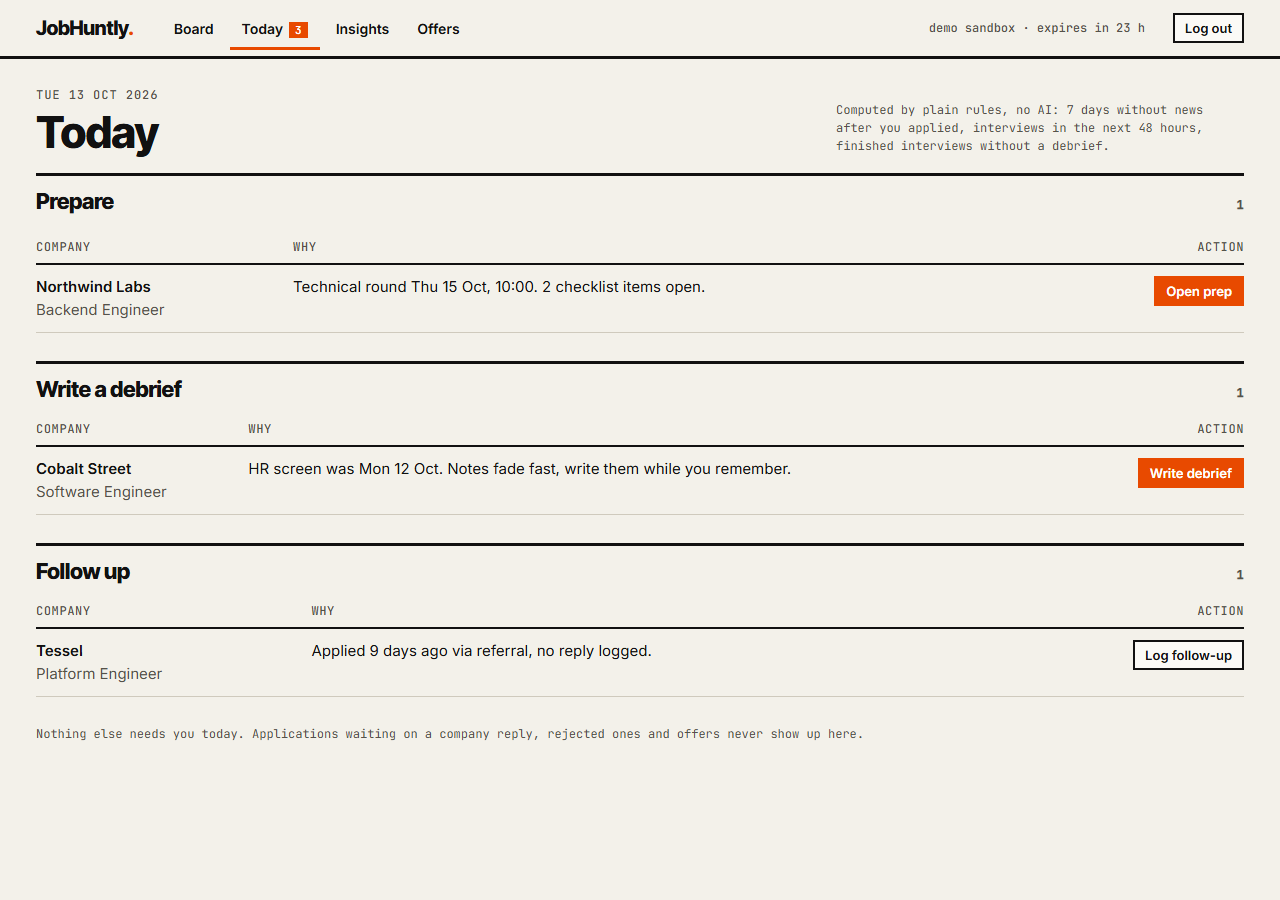
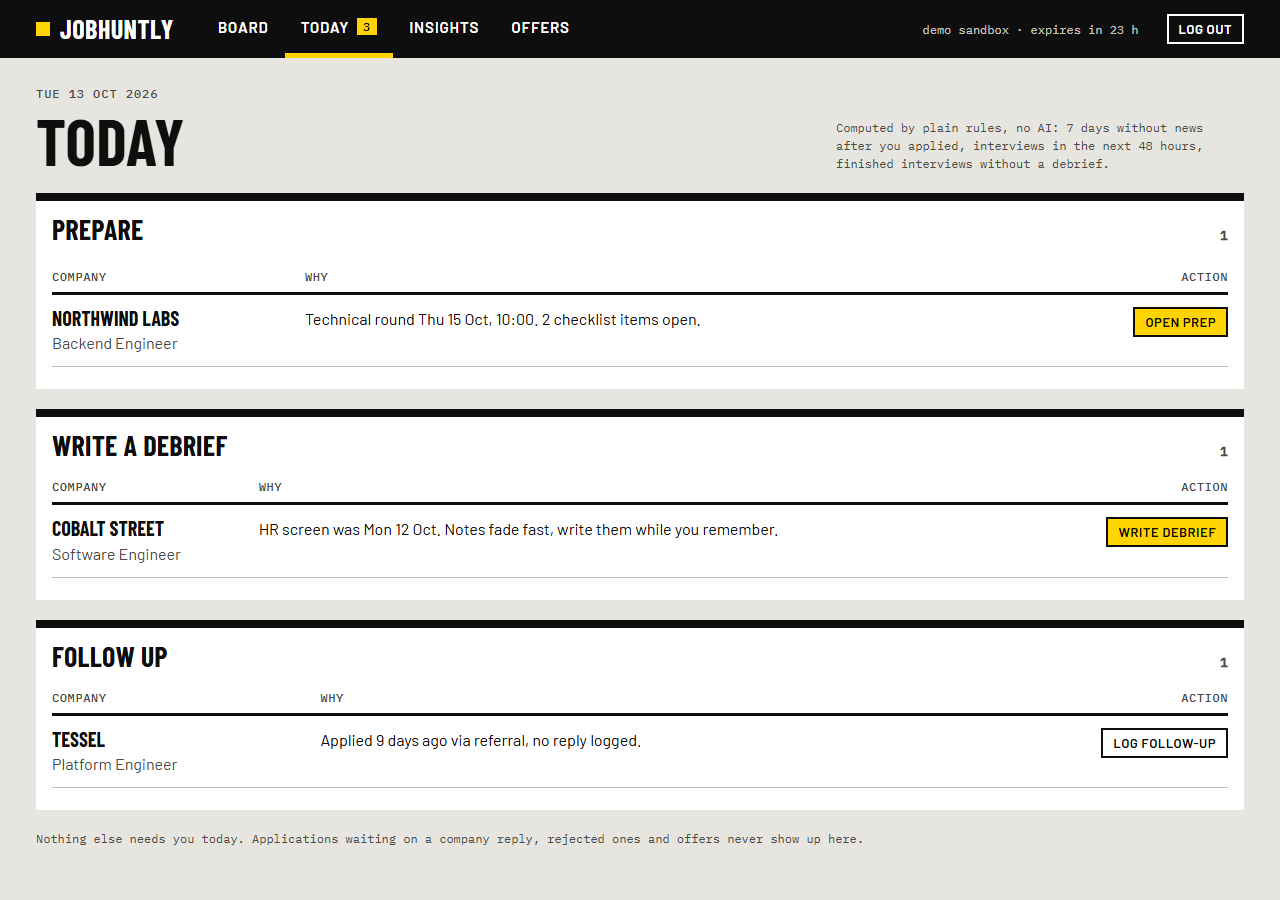
Redesign mockups as Wayfinding; add exchange-rate suggestion (D13, AC-7.5)
Replaces the Ledger direction (warm paper + orange, too close to generic
editorial templates) with Swiss signage language. Rates API checked on
2026-10-13: open.er-api.com includes GTQ.

Changed region(s): [[0.0312, 0.0933, 0.9688, 0.8711], [0.0, 0.0, 1.0, 0.0933]]

diff --git a/docs/mockups/wayfinding.css b/docs/mockups/wayfinding.css
@@ -1,0 +1,162 @@
+/* JobHuntly "Wayfinding" design direction (mockup).
+   Swiss signage language: DIN-style type (Barlow), black signage bars, concrete background,
+   and ONE signal colour, signage yellow, that always means "this needs you".
+   Time comes first (departures-board logic). Green = offer, red = rejected, never colour alone:
+   every state also has a word. */
+@import url('https://fonts.googleapis.com/css2?family=Barlow+Condensed:wght@600;700&family=Barlow:wght@400;500;600&family=IBM+Plex+Mono:wght@400;500&display=swap');
+
+:root {
+  --concrete: #E6E5E0;
+  --sheet: #FFFFFF;
+  --ink: #0E0E0E;
+  --muted: #4A4A46;
+  --hair: #BDBCB5;
+  --signal: #FFD400;       /* signage yellow: needs you. Always paired with black text. */
+  --offer: #0B7A3B;
+  --reject: #B3261E;
+  --display: 'Barlow Condensed', 'Arial Narrow', sans-serif;
+  --text: 'Barlow', system-ui, sans-serif;
+  --mono: 'IBM Plex Mono', ui-monospace, Consolas, monospace;
+  --gutter: 16px;
+}
+
+* { box-sizing: border-box; margin: 0; padding: 0; }
+html { -webkit-text-size-adjust: 100%; }
+body { background: var(--concrete); color: var(--ink); font: 400 16px/1.45 var(--text); }
+h1, h2, h3 { font-family: var(--display); font-weight: 700; text-transform: uppercase; letter-spacing: 0.01em; line-height: 1; }
+a { color: inherit; }
+:focus-visible { outline: 3px solid var(--ink); outline-offset: 2px; box-shadow: 0 0 0 6px var(--signal); }
+.mono { font-family: var(--mono); font-size: 13px; }
+.muted { color: var(--muted); }
+.wrap { max-width: 1240px; margin: 0 auto; padding: 0 var(--gutter); }
+
+/* ---- signage bar ---- */
+.top { background: var(--ink); color: #fff; }
+.top .wrap { display: flex; align-items: stretch; gap: 28px; min-height: 58px; flex-wrap: wrap; }
+.brand { font: 700 26px/1 var(--display); letter-spacing: 0.02em; text-transform: uppercase; text-decoration: none; display: flex; align-items: center; gap: 10px; }
+.brand i { width: 14px; height: 14px; background: var(--signal); display: inline-block; }
+.nav { display: flex; flex: 1; flex-wrap: wrap; }
+.nav a { display: flex; align-items: center; padding: 0 16px; text-decoration: none; font: 600 15px var(--text); text-transform: uppercase; letter-spacing: 0.06em; border-bottom: 5px solid transparent; }
+.nav a:hover { background: #26262A; }
+.nav a[aria-current="page"] { border-bottom-color: var(--signal); }
+.nav .count { font: 500 12px var(--mono); background: var(--signal); color: var(--ink); padding: 1px 6px; margin-left: 8px; }
+.who { font: 400 12px var(--mono); color: #C9C8C0; align-self: center; }
+.top .btn { align-self: center; }
+.top .btn.small { background: transparent; color: #fff; border-color: #fff; }
+.top .btn.small:hover { background: #fff; color: var(--ink); }
+
+/* ---- buttons / tags ---- */
+.btn { display: inline-flex; align-items: center; gap: 8px; border: 2px solid var(--ink); background: var(--sheet); color: var(--ink); padding: 9px 16px; font: 600 15px var(--text); text-transform: uppercase; letter-spacing: 0.04em; cursor: pointer; text-decoration: none; }
+.btn:hover { background: var(--ink); color: #fff; }
+.btn.primary { background: var(--signal); }
+.btn.primary:hover { background: var(--ink); color: var(--signal); }
+.btn.small { padding: 5px 10px; font-size: 13px; }
+.tag { display: inline-block; font: 500 11px var(--mono); border: 1px solid var(--ink); padding: 1px 6px; text-transform: uppercase; letter-spacing: 0.04em; background: var(--sheet); color: var(--ink); }
+.tag.ai { border-style: dashed; }
+.tag.signal { background: var(--ink); border-color: var(--ink); color: var(--signal); }
+.tag.ok { border-color: var(--offer); color: var(--offer); }
+
+/* ---- page head ---- */
+.head { display: flex; justify-content: space-between; align-items: end; gap: 16px; padding: 28px 0 20px; flex-wrap: wrap; }
+.head h1 { font-size: clamp(40px, 6vw, 64px); }
+.eyebrow { font: 500 12px var(--mono); text-transform: uppercase; letter-spacing: 0.08em; color: var(--muted); margin-bottom: 8px; }
+.band { background: var(--ink); color: #fff; }
+.band .head { padding: 26px 0 24px; }
+.band .eyebrow, .band .muted { color: #C9C8C0; }
+.band .btn { background: transparent; color: #fff; border-color: #fff; }
+.band .btn:hover { background: #fff; color: var(--ink); }
+
+/* ---- board ---- */
+.board { display: grid; grid-template-columns: repeat(6, minmax(0, 1fr)); gap: 10px; }
+.col { background: transparent; min-height: 360px; }
+.col h2 { background: var(--ink); color: #fff; font-size: 17px; letter-spacing: 0.06em; display: flex; justify-content: space-between; align-items: center; padding: 8px 10px; margin-bottom: 10px; }
+.col h2 .n { font: 500 13px var(--mono); color: var(--signal); }
+.card { background: var(--sheet); border: 1px solid var(--ink); border-left: 8px solid var(--ink); padding: 10px 10px 9px; margin-bottom: 10px; display: block; text-decoration: none; }
+.card:hover { background: #F6F6F3; }
+.card b { font: 700 22px/1 var(--display); text-transform: uppercase; letter-spacing: 0.01em; display: block; }
+.card .role { font-size: 14px; color: var(--muted); margin: 3px 0 9px; }
+.card .meta { font: 400 11px/1.5 var(--mono); color: var(--muted); }
+.card .next { font: 500 12px/1.4 var(--mono); margin-top: 8px; padding-top: 8px; border-top: 2px dashed var(--ink); }
+.card.needs { background: var(--signal); border-left-color: var(--ink); }
+.card.needs:hover { background: #FFDE33; }
+.card.needs .role, .card.needs .meta { color: #2B2600; }
+.card.needs .tag { background: var(--ink); color: var(--signal); }
+.col.is-offer .card { border-left-color: var(--offer); }
+.col.is-reject .card { border-left-color: var(--reject); background: #EEEDE8; }
+
+/* ---- generic sections ---- */
+.grid2 { display: grid; grid-template-columns: minmax(0, 2fr) minmax(0, 1fr); gap: 32px; align-items: start; }
+.panel { background: var(--sheet); border-top: 8px solid var(--ink); padding: 14px 16px 22px; margin-bottom: 20px; }
+.panel > h2 { font-size: 28px; margin-bottom: 12px; display: flex; justify-content: space-between; align-items: baseline; gap: 12px; }
+.panel > h2 .tag { font-size: 12px; }
+.row { display: grid; grid-template-columns: 120px minmax(0, 1fr); gap: 12px; padding: 10px 0; border-bottom: 1px solid var(--hair); }
+.row:last-child { border-bottom: 0; }
+.row .k { font: 500 12px var(--mono); color: var(--muted); padding-top: 3px; text-transform: uppercase; }
+.field { background: var(--sheet); border: 2px solid var(--ink); padding: 10px; width: 100%; font: 400 15px/1.5 var(--text); color: var(--ink); }
+.check { display: flex; gap: 10px; padding: 7px 0; border-bottom: 1px solid var(--hair); align-items: flex-start; }
+.check:last-child { border-bottom: 0; }
+.check .box { width: 18px; height: 18px; border: 2px solid var(--ink); flex: none; margin-top: 2px; background: var(--sheet); }
+.check .box.on { background: var(--ink); box-shadow: inset 0 0 0 3px var(--signal); }
+.quote { border-left: 8px solid var(--signal); background: #FAFAF7; padding: 8px 12px; margin: 10px 0; }
+.quote .link { font: 500 12px var(--mono); color: var(--muted); margin-top: 3px; }
+
+/* departures-style next-interview block */
+.depart { display: flex; gap: 20px; align-items: center; background: var(--ink); color: #fff; padding: 14px 16px; margin: 4px 0 6px; flex-wrap: wrap; }
+.depart .t { font: 500 clamp(44px, 8vw, 64px)/1 var(--mono); color: var(--signal); letter-spacing: -0.02em; }
+.depart b { font: 700 28px/1 var(--display); text-transform: uppercase; display: block; }
+.depart .mono { color: #C9C8C0; }
+.depart .tag { margin-left: auto; }
+
+table { width: 100%; border-collapse: collapse; }
+th { text-align: left; font: 500 12px var(--mono); text-transform: uppercase; letter-spacing: 0.05em; color: var(--muted); border-bottom: 3px solid var(--ink); padding: 8px 10px 8px 0; }
+td { padding: 12px 10px 12px 0; border-bottom: 1px solid var(--hair); vertical-align: top; }
+td b { font: 700 20px/1.1 var(--display); text-transform: uppercase; }
+td.num, th.num { text-align: right; font-family: var(--mono); font-variant-numeric: tabular-nums; padding-right: 0; }
+.bar { height: 18px; background: var(--ink); }
+.bar.alt { background: var(--signal); box-shadow: inset 0 0 0 2px var(--ink); }
+.timeline { list-style: none; border-left: 4px solid var(--ink); margin-left: 6px; }
+.timeline li { padding: 0 0 14px 18px; position: relative; }
+.timeline li::before { content: ""; position: absolute; left: -10px; top: 4px; width: 16px; height: 16px; background: var(--sheet); border: 3px solid var(--ink); }
+.timeline li.now::before { background: var(--signal); }
+.timeline .t { font: 500 12px var(--mono); color: var(--muted); display: block; }
+.stat { background: var(--sheet); border-top: 8px solid var(--ink); padding: 10px 14px 12px; }
+.stat b { font: 700 56px/1 var(--display); display: block; }
+.stats { display: grid; grid-template-columns: repeat(4, minmax(0, 1fr)); gap: 14px; margin-bottom: 24px; }
+.foot { border-top: 3px solid var(--ink); margin-top: 32px; padding: 14px 0 28px; font: 400 12px var(--mono); color: var(--muted); }
+.note { font: 400 12px/1.5 var(--mono); color: var(--muted); }
+
+/* ---- landing ---- */
+.hero { display: grid; grid-template-columns: minmax(0, 1.1fr) minmax(0, 1fr); gap: 40px; padding: 48px 0 36px; align-items: center; }
+.hero h1 { font-size: clamp(56px, 9vw, 112px); line-height: 1; }
+.hero h1 mark { background: var(--signal); color: var(--ink); padding: 0 12px; display: inline-block; margin-top: 6px; }
+.hero p { font-size: 20px; max-width: 32em; margin: 26px 0 26px; }
+.hero p.note { font-size: 12px; margin: 14px 0 0; }
+.ctas { display: flex; gap: 12px; flex-wrap: wrap; }
+.ledger { background: var(--ink); color: #fff; padding: 14px 16px; }
+.ledger .line { display: grid; grid-template-columns: 86px minmax(0, 1fr); gap: 12px; padding: 10px 0; border-bottom: 1px solid #3A3A3F; }
+.ledger .line:last-child { border-bottom: 0; }
+.ledger .muted { color: #C9C8C0; }
+.ledger .mono { color: var(--signal); }
+.ledger .tag.signal { background: var(--signal); color: var(--ink); border-color: var(--signal); }
+.ledger .tag.ai { background: transparent; color: #fff; border-color: #fff; }
+
+.row > div, .card, td { min-width: 0; overflow-wrap: anywhere; }
+
+@media (max-width: 900px) {
+  .board { grid-template-columns: 1fr; }
+  .col { min-height: 0; }
+  .grid2, .hero { grid-template-columns: 1fr; gap: 24px; }
+  .stats { grid-template-columns: repeat(2, minmax(0, 1fr)); }
+  .row { grid-template-columns: 96px minmax(0, 1fr); }
+  .hero { padding-top: 28px; }
+  .depart .tag { margin-left: 0; }
+}
+@media (max-width: 640px) {
+  .top .wrap { gap: 0 16px; }
+  .brand { flex: 1; min-height: 52px; }
+  .nav { order: 3; flex-basis: 100%; flex-wrap: nowrap; overflow-x: auto; }
+  .nav a { white-space: nowrap; padding: 12px 12px; }
+  .who { display: none; }
+  table { font-size: 14px; }
+  .scroll { overflow-x: auto; }
+}

diff --git a/docs/mockups/offers.html b/docs/mockups/offers.html
@@ -1,9 +1,9 @@
 <!doctype html>
 <html lang="en"><head><meta charset="utf-8"><meta name="viewport" content="width=device-width,initial-scale=1">
-<title>JobHuntly (mockup: offers)</title><link rel="stylesheet" href="ledger.css"></head>
+<title>JobHuntly (mockup: offers)</title><link rel="stylesheet" href="wayfinding.css"></head>
 <body>
 <header class="top"><div class="wrap">
-  <a class="brand" href="index.html">JobHuntly<i>.</i></a>
+  <a class="brand" href="index.html"><i></i>JobHuntly</a>
   <nav class="nav" aria-label="Main">
     <a href="board.html">Board</a>
     <a href="today.html">Today<span class="count">3</span></a>
@@ -22,9 +22,9 @@
 
   <section class="panel" aria-labelledby="fx"><h2 id="fx">Exchange rates you trust</h2>
     <div style="display:flex;gap:24px;flex-wrap:wrap;align-items:end">
-      <label><span class="mono muted">1 USD IN GTQ</span><br><input class="field mono" value="7.68" style="width:130px"></label>
-      <label><span class="mono muted">1 EUR IN GTQ</span><br><input class="field mono" value="8.40" style="width:130px"></label>
-      <p class="note" style="max-width:32em">You type the rates; nothing is fetched from the internet, so the numbers never change under you.</p>
+      <label><span class="mono muted">1 USD IN GTQ</span><br><input class="field mono" value="7.64" style="width:130px"></label>
+      <label><span class="mono muted">1 EUR IN GTQ</span><br><input class="field mono" value="8.54" style="width:130px"></label>
+      <div><a class="btn small" href="#">Fetch today's rate</a><p class="note" style="max-width:36em;margin-top:6px">Suggested from <a href="https://www.exchangerate-api.com">ExchangeRate-API</a> (updated 13 Oct). It only fills these fields. Comparisons always use the values shown here, so numbers never change under you.</p></div>
     </div>
   </section>
 
@@ -32,9 +32,9 @@
     <div class="scroll"><table>
       <thead><tr><th>Company</th><th>As offered</th><th class="num">Per month, USD</th><th class="num">Per month, GTQ</th><th>Notes</th></tr></thead>
       <tbody>
-        <tr><td><b>Silverline</b><br><span class="muted">Senior Backend</span></td><td class="mono">USD 3,400 / month</td><td class="num"><b>3,400.00</b></td><td class="num"><b>26,112.00</b></td><td>Remote, contractor, 15 days paid vacation</td></tr>
-        <tr><td><b>Brightwave</b><br><span class="muted">Full-stack Engineer</span></td><td class="mono">EUR 38,400 / year</td><td class="num"><b>3,500.00</b></td><td class="num"><b>26,880.00</b></td><td>Employee, health insurance, equity unclear</td></tr>
-        <tr><td><b>Lumen Freight</b><br><span class="muted">.NET Developer</span></td><td class="mono">GTQ 24,000 / month</td><td class="num"><b>3,125.00</b></td><td class="num"><b>24,000.00</b></td><td>On-site zone 10, bonus in December</td></tr>
+        <tr><td><b>Silverline</b><br><span class="muted">Senior Backend</span></td><td class="mono">USD 3,400 / month</td><td class="num"><b>3,400.00</b></td><td class="num"><b>25,976.00</b></td><td>Remote, contractor, 15 days paid vacation</td></tr>
+        <tr><td><b>Brightwave</b><br><span class="muted">Full-stack Engineer</span></td><td class="mono">EUR 38,400 / year</td><td class="num"><b>3,576.96</b></td><td class="num"><b>27,328.00</b></td><td>Employee, health insurance, equity unclear</td></tr>
+        <tr><td><b>Lumen Freight</b><br><span class="muted">.NET Developer</span></td><td class="mono">GTQ 24,000 / month</td><td class="num"><b>3,141.36</b></td><td class="num"><b>24,000.00</b></td><td>On-site zone 10, bonus in December</td></tr>
       </tbody></table></div>
     <p class="note" style="margin-top:10px">Gross figures as entered; no tax calculation. Annual amounts are divided by 12 and all results are rounded to 2 decimals.</p>
   </section>

diff --git a/docs/mockups/detail.html b/docs/mockups/detail.html
@@ -1,9 +1,9 @@
 <!doctype html>
 <html lang="en"><head><meta charset="utf-8"><meta name="viewport" content="width=device-width,initial-scale=1">
-<title>JobHuntly (mockup: application detail)</title><link rel="stylesheet" href="ledger.css"></head>
+<title>JobHuntly (mockup: application detail)</title><link rel="stylesheet" href="wayfinding.css"></head>
 <body>
 <header class="top"><div class="wrap">
-  <a class="brand" href="index.html">JobHuntly<i>.</i></a>
+  <a class="brand" href="index.html"><i></i>JobHuntly</a>
   <nav class="nav" aria-label="Main">
     <a href="board.html" aria-current="page">Board</a>
     <a href="today.html">Today<span class="count">3</span></a>
@@ -14,25 +14,24 @@
   <a class="btn small" href="#">Log out</a>
 </div></header>
 
-<main class="wrap">
-  <div class="head">
+<div class="band"><div class="wrap"><div class="head">
     <div>
       <div class="eyebrow"><a href="board.html">← Pipeline</a> · Interviewing · LinkedIn · applied 24 Sep</div>
       <h1>Northwind Labs</h1>
-      <p class="muted" style="font-size:18px;margin-top:4px">Backend Engineer · remote (LATAM) · USD 3,000 to 3,600 / month</p>
+      <p class="muted" style="font-size:18px;margin-top:6px">Backend Engineer · remote (LATAM) · USD 3,000 to 3,600 / month</p>
     </div>
     <div style="display:flex;gap:10px;flex-wrap:wrap">
       <a class="btn" href="#">Move to… ▾</a>
       <a class="btn" href="#">Log a follow-up</a>
     </div>
-  </div>
+  </div></div></div>
+  <main class="wrap" style="padding-top:20px">
 
   <div class="grid2">
     <div>
       <section class="panel" aria-labelledby="int-h">
         <h2 id="int-h">Next interview <span class="tag signal">Prepare · 2 days left</span></h2>
-        <div class="row"><span class="k">ROUND</span><div><b>Technical</b> · 60 min · video</div></div>
-        <div class="row"><span class="k">WHEN</span><div class="mono" style="font-size:14px">THU 15 OCT 2026 · 10:00 (UTC−6)</div></div>
+        <div class="depart"><span class="t">10:00</span><div><span class="mono">THU 15 OCT 2026 · UTC−6</span><b>Technical round</b><span class="mono">60 min · video</span></div></div>
         <div class="row"><span class="k">CHECKLIST</span>
           <div>
             <div class="check"><span class="box on"></span><span>Re-read the job post and list the stack they name</span></div>

diff --git a/docs/mockups/board.html b/docs/mockups/board.html
@@ -1,9 +1,9 @@
 <!doctype html>
 <html lang="en"><head><meta charset="utf-8"><meta name="viewport" content="width=device-width,initial-scale=1">
-<title>JobHuntly (mockup: board)</title><link rel="stylesheet" href="ledger.css"></head>
+<title>JobHuntly (mockup: board)</title><link rel="stylesheet" href="wayfinding.css"></head>
 <body>
 <header class="top"><div class="wrap">
-  <a class="brand" href="index.html">JobHuntly<i>.</i></a>
+  <a class="brand" href="index.html"><i></i>JobHuntly</a>
   <nav class="nav" aria-label="Main">
     <a href="board.html" aria-current="page">Board</a>
     <a href="today.html">Today<span class="count">3</span></a>
@@ -51,17 +51,17 @@
       <a class="card" href="detail.html"><b>Ardent IO</b><div class="role">Backend Engineer</div><div class="meta">TAKE-HOME DUE FRI 16 OCT</div></a>
     </section>
 
-    <section class="col" aria-label="Offer" role="listitem">
+    <section class="col is-offer" aria-label="Offer" role="listitem">
       <h2>Offer <span class="n">01</span></h2>
       <a class="card" href="offers.html"><b>Silverline</b><div class="role">Senior Backend (remote)</div><div class="meta">USD 3,400 / MONTH</div><div class="next">Compare offers →</div></a>
     </section>
 
-    <section class="col" aria-label="Rejected" role="listitem">
+    <section class="col is-reject" aria-label="Rejected" role="listitem">
       <h2>Rejected <span class="n">02</span></h2>
       <a class="card" href="detail.html"><b>Kettle &amp; Co</b><div class="role">Developer</div><div class="meta">AFTER TECHNICAL · SKILLS GAP</div></a>
       <a class="card" href="detail.html"><b>Gridline</b><div class="role">Engineer</div><div class="meta">NO REASON GIVEN</div></a>
     </section>
   </div>
-  <footer class="foot">Cards with an orange top rule need something from you. Everything else is waiting on the company.</footer>
+  <footer class="foot">Yellow cards need something from you. Everything else is waiting on the company.</footer>
 </main>
 </body></html>

diff --git a/docs/mockups/index.html b/docs/mockups/index.html
@@ -1,9 +1,9 @@
 <!doctype html>
 <html lang="en"><head><meta charset="utf-8"><meta name="viewport" content="width=device-width,initial-scale=1">
-<title>JobHuntly (mockup: landing)</title><link rel="stylesheet" href="ledger.css"></head>
+<title>JobHuntly (mockup: landing)</title><link rel="stylesheet" href="wayfinding.css"></head>
 <body>
 <header class="top"><div class="wrap">
-  <a class="brand" href="index.html">JobHuntly<i>.</i></a>
+  <a class="brand" href="index.html"><i></i>JobHuntly</a>
   <nav class="nav" aria-label="Main"></nav>
   <a class="btn small" href="#">Sign in</a>
 </div></header>
@@ -12,8 +12,8 @@
   <section class="hero">
     <div>
       <div class="eyebrow">An interview notebook</div>
-      <h1>Win the<br>interview,<br>not just the <i>list.</i></h1>
-      <p>Most trackers store rows. JobHuntly helps you prepare for each round, write down what happened right after, and shows what your search is really telling you.</p>
+      <h1>Every<br>interview,<br>on the <mark>board.</mark></h1>
+      <p>Most trackers store rows. JobHuntly shows what is next, helps you prepare each round, captures what happened right after, and tells you what your search is really saying.</p>
       <div class="ctas">
         <a class="btn primary" href="board.html">Try the demo, no signup</a>
         <a class="btn" href="#">Create an account</a>

diff --git a/docs/mockups/today.html b/docs/mockups/today.html
@@ -1,9 +1,9 @@
 <!doctype html>
 <html lang="en"><head><meta charset="utf-8"><meta name="viewport" content="width=device-width,initial-scale=1">
-<title>JobHuntly (mockup: today)</title><link rel="stylesheet" href="ledger.css"></head>
+<title>JobHuntly (mockup: today)</title><link rel="stylesheet" href="wayfinding.css"></head>
 <body>
 <header class="top"><div class="wrap">
-  <a class="brand" href="index.html">JobHuntly<i>.</i></a>
+  <a class="brand" href="index.html"><i></i>JobHuntly</a>
   <nav class="nav" aria-label="Main">
     <a href="board.html">Board</a>
     <a href="today.html" aria-current="page">Today<span class="count">3</span></a>

diff --git a/docs/mockups/insights.html b/docs/mockups/insights.html
@@ -1,9 +1,9 @@
 <!doctype html>
 <html lang="en"><head><meta charset="utf-8"><meta name="viewport" content="width=device-width,initial-scale=1">
-<title>JobHuntly (mockup: insights)</title><link rel="stylesheet" href="ledger.css"></head>
+<title>JobHuntly (mockup: insights)</title><link rel="stylesheet" href="wayfinding.css"></head>
 <body>
 <header class="top"><div class="wrap">
-  <a class="brand" href="index.html">JobHuntly<i>.</i></a>
+  <a class="brand" href="index.html"><i></i>JobHuntly</a>
   <nav class="nav" aria-label="Main">
     <a href="board.html">Board</a>
     <a href="today.html">Today<span class="count">3</span></a>

diff --git a/docs/02-plan.md b/docs/02-plan.md
@@ -61,8 +61,14 @@ Estimated cost: Fly.io shared-cpu-1x about USD 2.19/month if it ran 24/7 (publis
 ### D9. Frontend
 - Stay on Next.js 16 / React 19, upgrade to a patched version (current one has a critical advisory). TypeScript strict, no `any`.
 - Keep vanilla CSS with design tokens (CSS variables) and CSS modules per component; the brutalist/Swiss identity is kept. Split the 446-line board page into components; typed API client in `src/lib/api.ts`.
+- Design direction: "Wayfinding" (see `docs/mockups/wayfinding.css`): Barlow Condensed / Barlow / IBM Plex Mono, black bars, concrete background, signal yellow `#FFD400` always with black text, green only for offers and red only for rejections, and every state also has a word (never colour alone). The first direction tried ("Ledger": warm paper plus orange) was dropped because it looked too much like current generic editorial templates.
 - Rejected: Tailwind or a component library (would pull toward the generic look the owner dislikes); a state library (server data plus local state is enough).
 - **Design gate (b):** mockups of landing, board, application detail (timeline, prep, debrief), Today, analytics, offers are shown to the owner before UI implementation (task T14).
+
+### D13. Exchange rates
+- `IExchangeRateProvider` (Application) with an `OpenErApiRateProvider` (Infrastructure) calling `https://open.er-api.com/v6/latest/USD`. Checked on 2026-10-13: it includes GTQ and EUR, needs no key and updates daily; its terms require attribution, which the UI shows. Cached 12 h in memory; response validated before use.
+- It only *suggests* values for the editable rate fields; saved rates drive every calculation (deterministic, principle 2).
+- Rejected: Frankfurter (ECB data, no GTQ); a community CDN dataset (works, but no terms or SLA); fetching on every page load (numbers would drift under the user).
 
 ### D10. Testing and CI
 - Backend: xUnit. Unit tests for the calculators and services; integration tests with `WebApplicationFactory` against a real Postgres. The owner's machine has no Docker, so locally the tests and dev server use a **separate development database on Neon** (never the production one; connection string in a git-ignored `.env`); in CI a Postgres service container is used. Tests create their own unique users and clean up after themselves.

diff --git a/docs/01-spec.md b/docs/01-spec.md
@@ -29,7 +29,6 @@ People searching for a job (the owner is the first user, searching for remote wo
 - Email/calendar integrations, browser extension, notifications by email.
 - Salary tax/net calculations (no claims about taxes).
 - Teams or sharing, multi-language UI.
-- Live exchange-rate API (the rate is typed by the user; deterministic, no dependency).
 
 ## 3. User stories and acceptance criteria
 
@@ -70,9 +69,10 @@ Each criterion has an ID and the test type that proves it (U = unit, I = integra
 
 ### US7. Compare offers
 - **AC-7.1** (I) An offer stores: amount, currency (USD, GTQ, EUR), period (monthly/annual), and free-text notes (benefits, equity).
-- **AC-7.2** (U) The comparator normalises every offer to monthly GTQ and monthly USD using the exchange rates typed by the user; changing a rate updates the table instantly and never calls an external service.
+- **AC-7.2** (U) The comparator normalises every offer to monthly GTQ and monthly USD using the exchange rates saved in the user's settings; changing a rate updates the table instantly. The comparison itself never calls an external service, so numbers never change under the user.
 - **AC-7.3** (U) Rounding rules are fixed and tested (2 decimals, half away from zero); annual to monthly divides by 12.
 - **AC-7.4** (E) The UI states "gross figures as entered; no tax calculation".
+- **AC-7.5** (I) A "Fetch today's rate" button asks the backend for the current USD/GTQ and EUR/GTQ rates from a public rates API (open.er-api.com) and only fills the editable fields; nothing is saved until the user confirms. The backend caches the response for 12 hours, validates it (positive number, plausible range 1 to 20 for GTQ per USD), and shows the provider's attribution and update date. If the provider fails, the manual fields keep working and the UI says so. Tests use a fake provider; the real call is verified once manually (M).
 
 ### US8. Try it without signing up
 - **AC-8.1** (E) The landing page has a "Try the demo" button; one click lands on the board with at least 8 sample applications, 3 interviews (one with debrief) and 2 stories.

diff --git a/docs/00-principles.md b/docs/00-principles.md
@@ -12,5 +12,5 @@ Rules that do not get broken. If a task conflicts with one of these, the task ch
 8. **Every acceptance criterion becomes a test.** If a criterion cannot be tested, it is rewritten until it can.
 9. **Real services, not only mocks.** Postgres is real in integration tests. The Groq integration is verified once against the real API before it is called done.
 10. **English everywhere in the repo** (UI, code, docs, commits). Spanish stays in the chat with the owner.
-11. **Distinct design, not generic.** Swiss/brutalist identity kept and sharpened: strong grid, real typography, no gradients, no purple, no rounded-card template look. Mockups are approved before UI work.
+11. **Distinct design, not generic.** Direction "Wayfinding": Swiss airport/station signage language (DIN-style Barlow type, black signage bars, concrete background, one signal yellow that always means "this needs you"; time comes first). No gradients, no purple, no rounded-card template look. Mockups are approved before UI work.
 12. **Small and understandable beats clever.** No dependency is added without a sentence in the plan explaining why.

diff --git a/docs/03-tasks.md b/docs/03-tasks.md
@@ -23,7 +23,7 @@ Legend: [ ] pending, [x] done.
 - [ ] **T10 Interviews, checklists, debriefs API.** `ChecklistCatalog`. *Done when:* AC-3.1, 3.2, 4.1, 4.3, 4.4 and isolation tests pass.
 - [ ] **T11 Nudges.** `NudgeCalculator` + endpoint. *Done when:* AC-5.1, 5.3 unit tests incl. boundaries pass.
 - [ ] **T12 Funnel analytics v2.** *Done when:* AC-6.1 to 6.3 pass.
-- [ ] **T13 Offers + comparator + stories API.** *Done when:* AC-7.1 to 7.3 pass; isolation tests for offers and stories.
+- [ ] **T13 Offers + comparator + rate suggestion + stories API.** *Done when:* AC-7.1 to 7.3 and AC-7.5 pass (fake provider); isolation tests for offers and stories; one manual run against the real rates API recorded.
 
 ## Phase 3. Design (can run in parallel with Phase 2)
 - [~] **T14 Mockups, gate (b), delivered, awaiting owner approval.** Static HTML mockups for landing, board, application detail, Today, analytics, offers at desktop and 375 px; shown to the owner. *Done when:* owner approves a direction.
